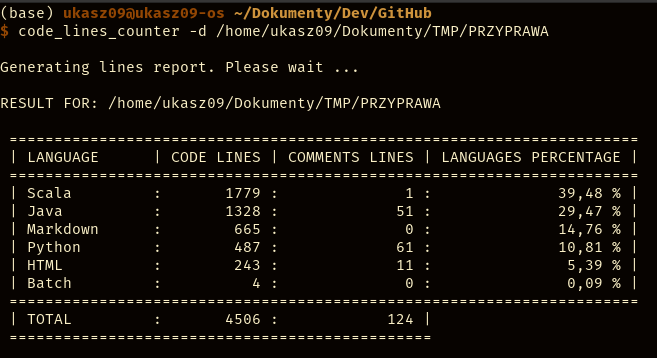
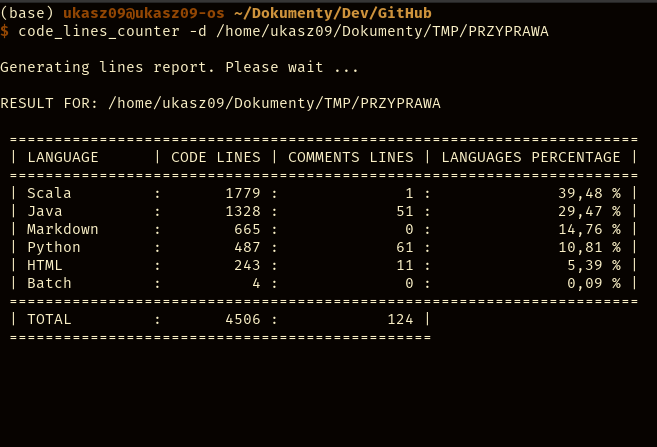
Fix image displaying

Changed region(s): [[0.0, 0.2765, 0.9741, 0.9525], [0.0, 0.0, 0.8524, 0.2458], [0.2131, 0.4609, 0.2435, 0.5223]]

diff --git a/README.md b/README.md
@@ -2,15 +2,20 @@
 
 > Generate a summary report of written lines of code (Bash)
 
-**code_lines_counter** - generate report about written lines of code and comments, with ommiting empty lines for given directory and all sub-directories
+**code_lines_counter** - generate report about written lines of code and comments, with ommiting empty lines, for given directory and all sub-directories
 
 ## Examples
 
 - **Counting lines**
 
-| For actual directory | For given specific directory |
-| -------- | ------- |
-| ![](/doc/images/counter_norm.png) | ![](/doc/images/counter_specific.png) |
+| For actual directory |
+| -------- |
+| ![](/doc/images/counter_norm.png) |
+
+</br>
+| For given specific directory |
+| ------- |
+| ![](/doc/images/counter_specific.png) |
 
 - **Supported languages**
 
